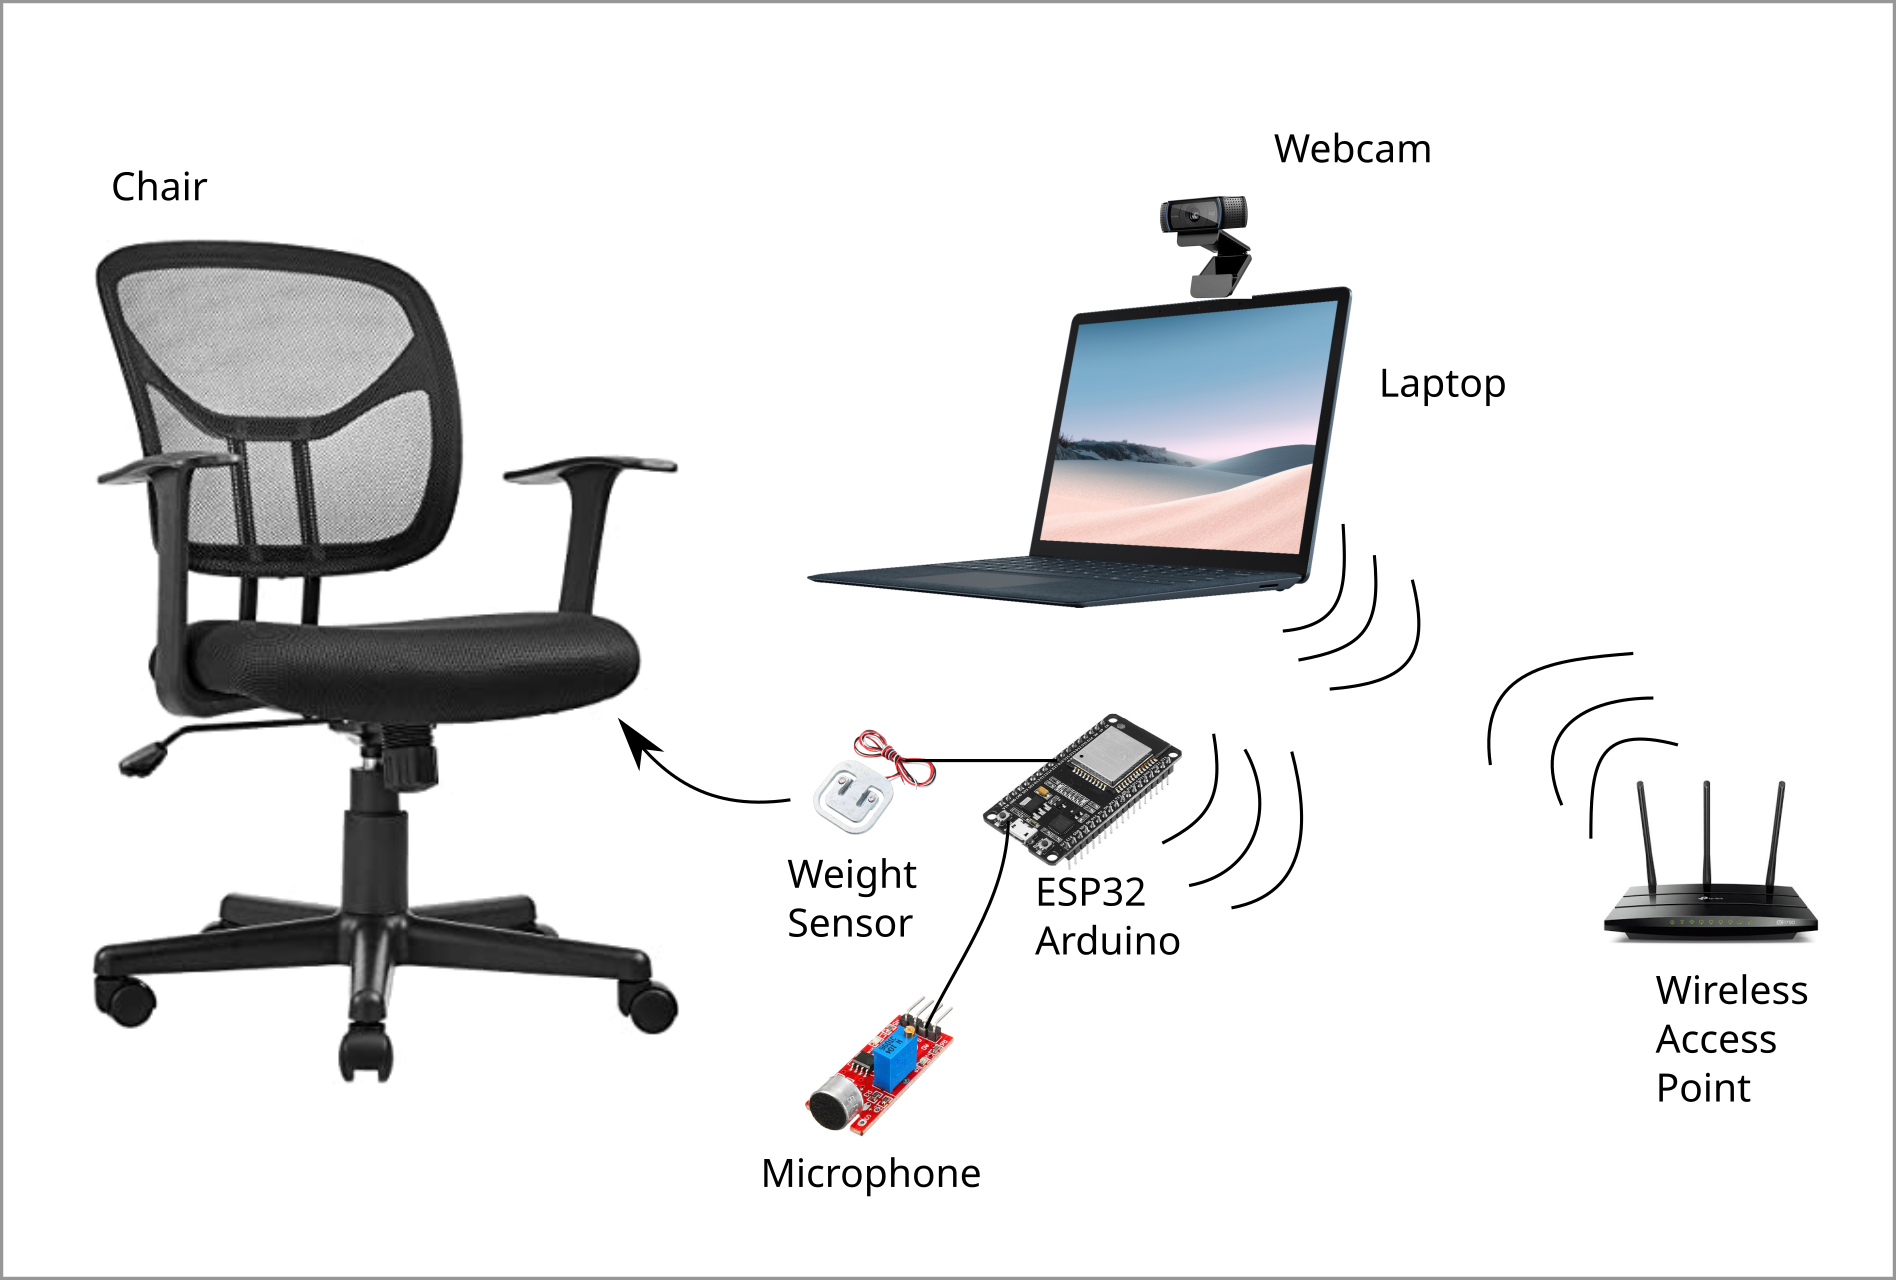
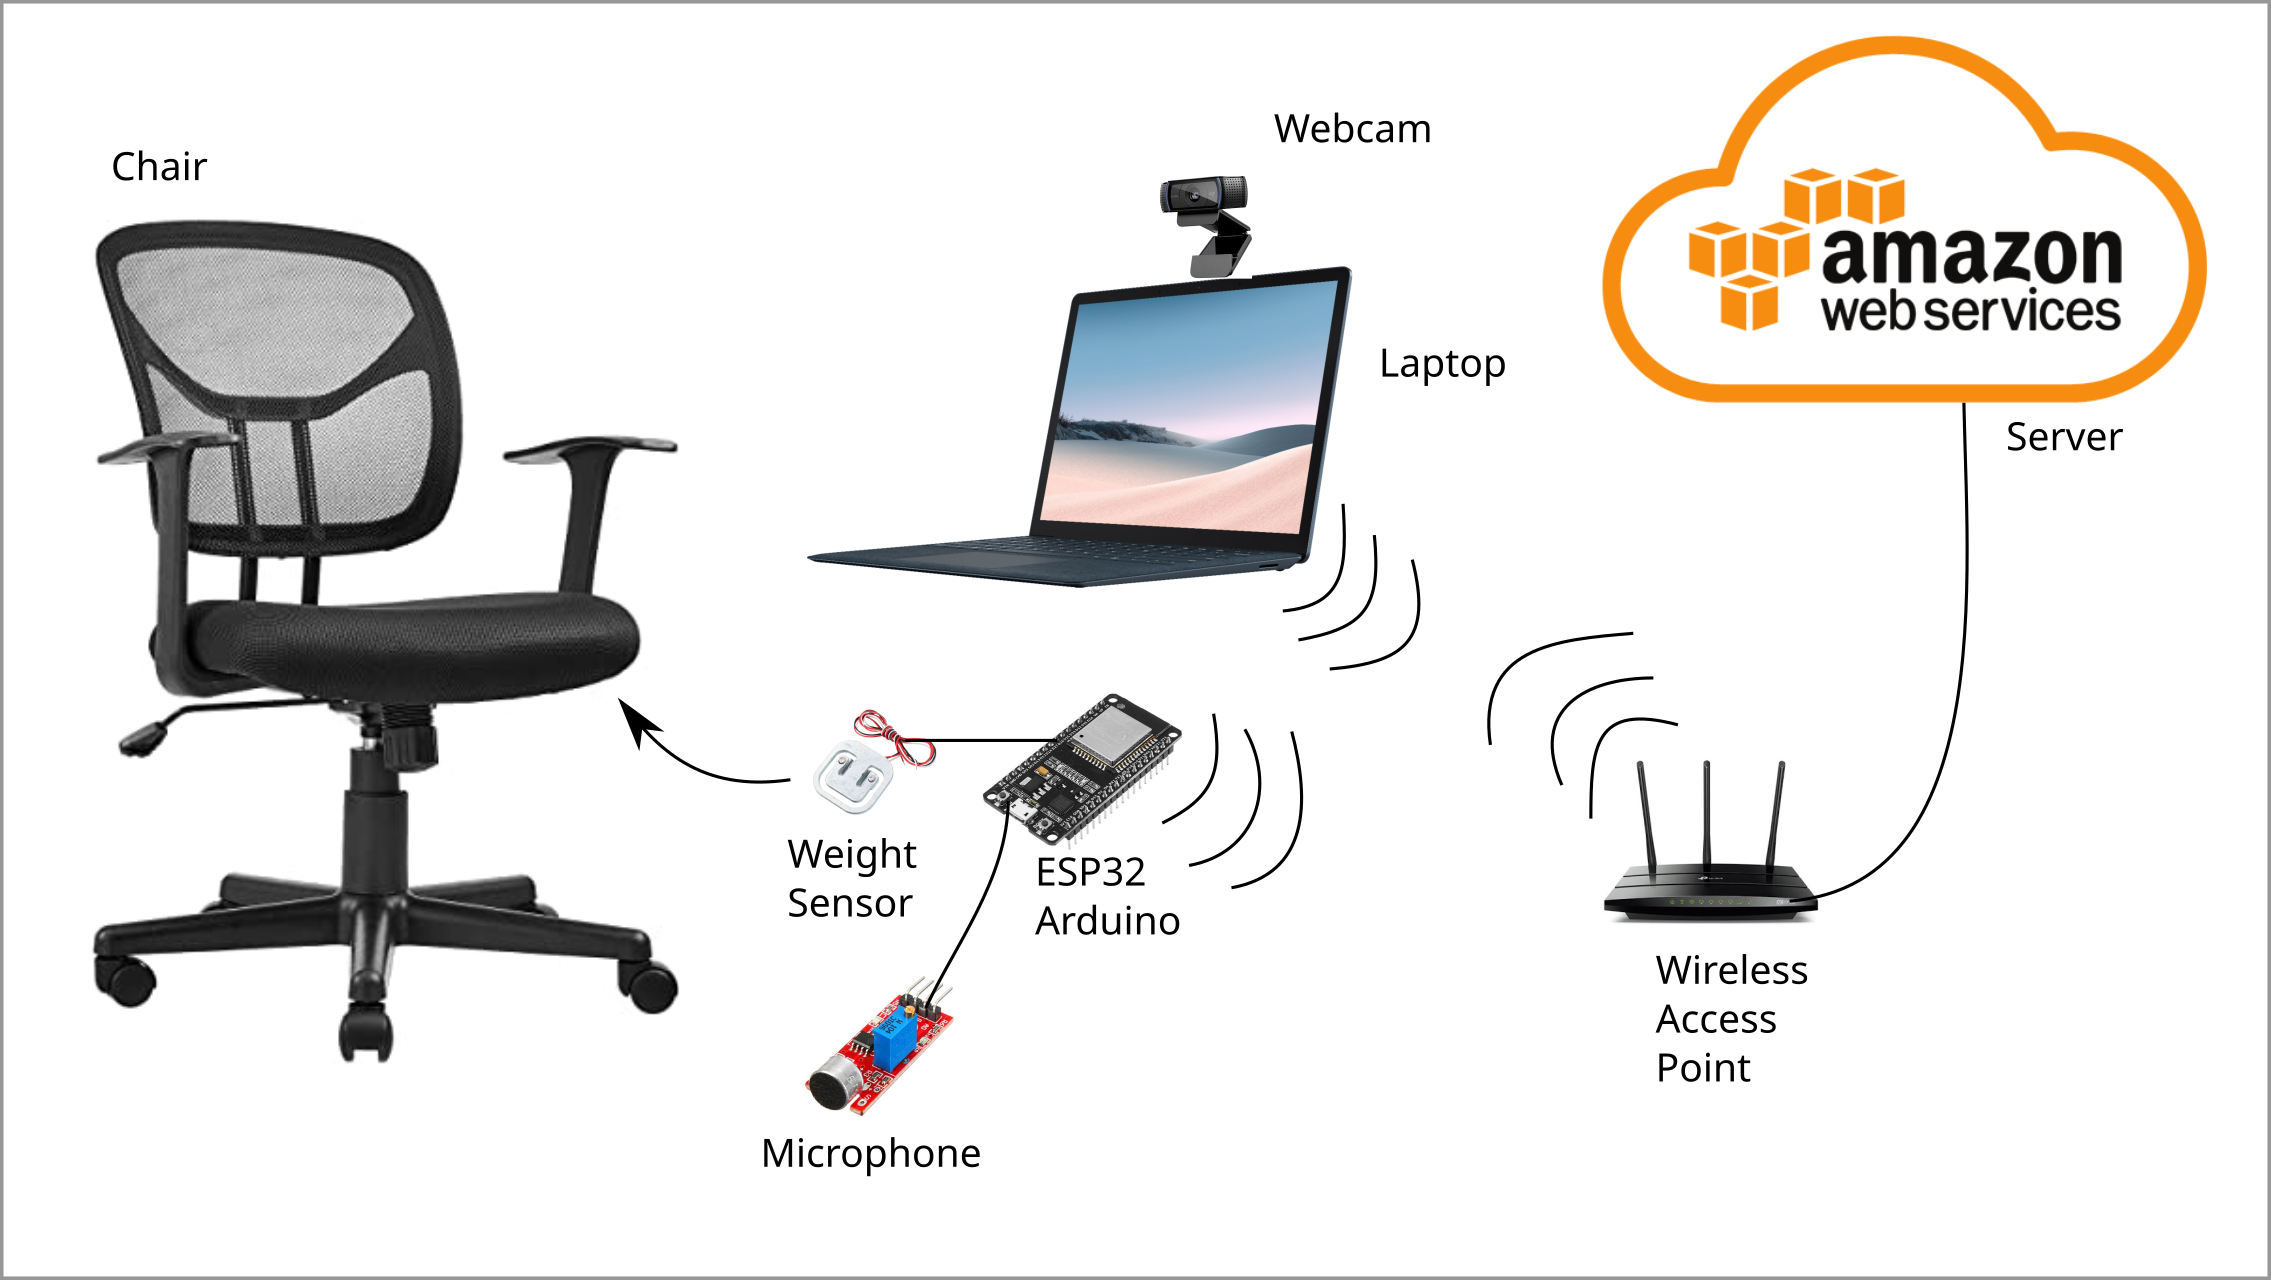
revise diagram

diff --git a/README.md b/README.md
@@ -42,6 +42,6 @@
 
 ### Milestones
 
-4월: 각종 센서 구입, 
-5월: 아두이노 코드 작성, 
-6월: 
+4월: 각종 센서 구입, 알고리즘 연구
+5월: 아두이노 코드 작성, 서버 코드 작성
+6월: 논문 작성, 발표
